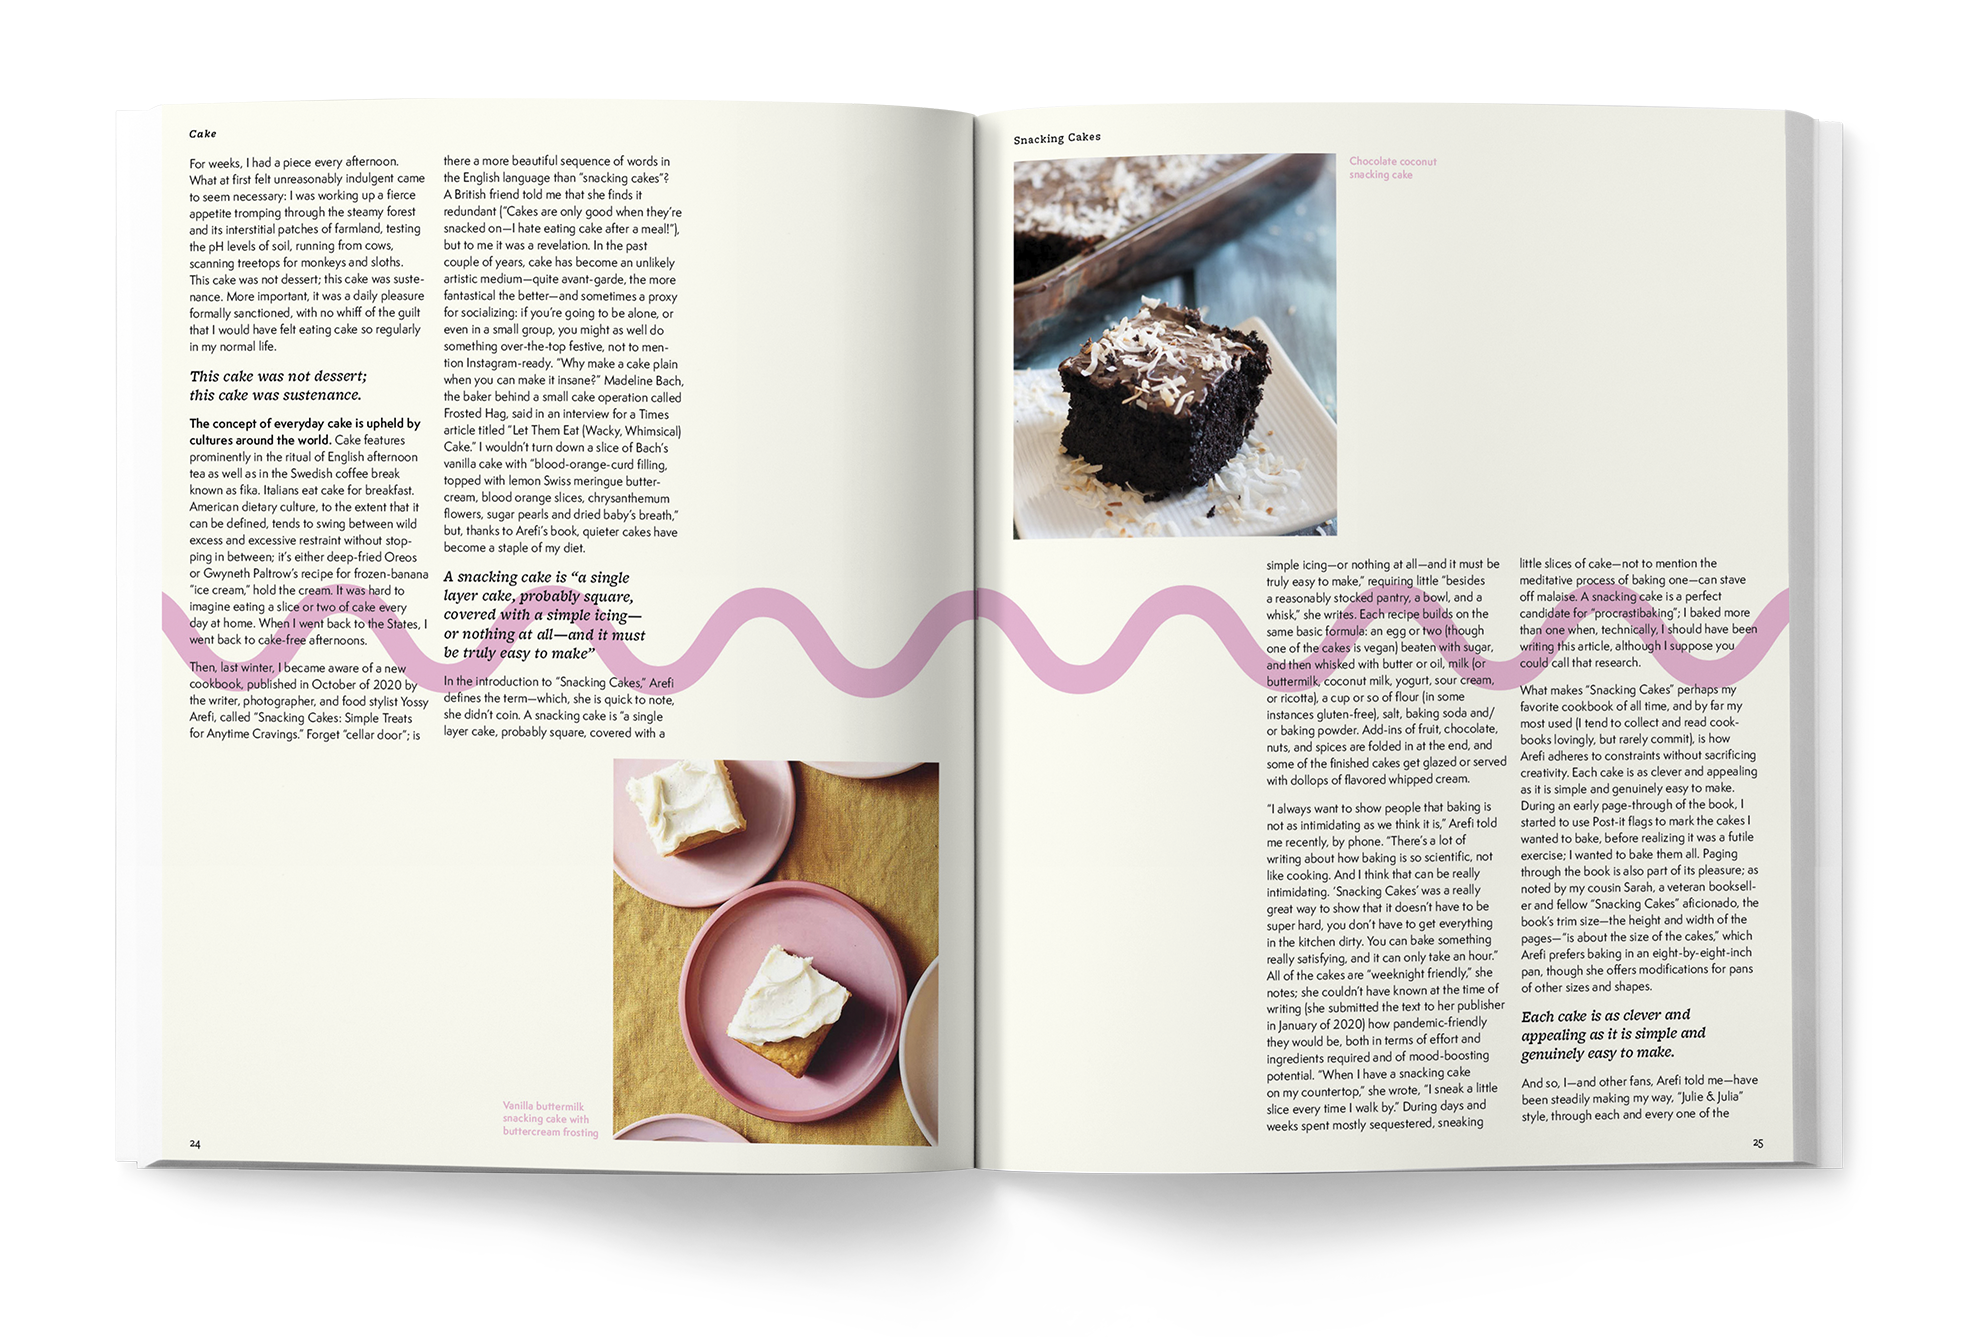
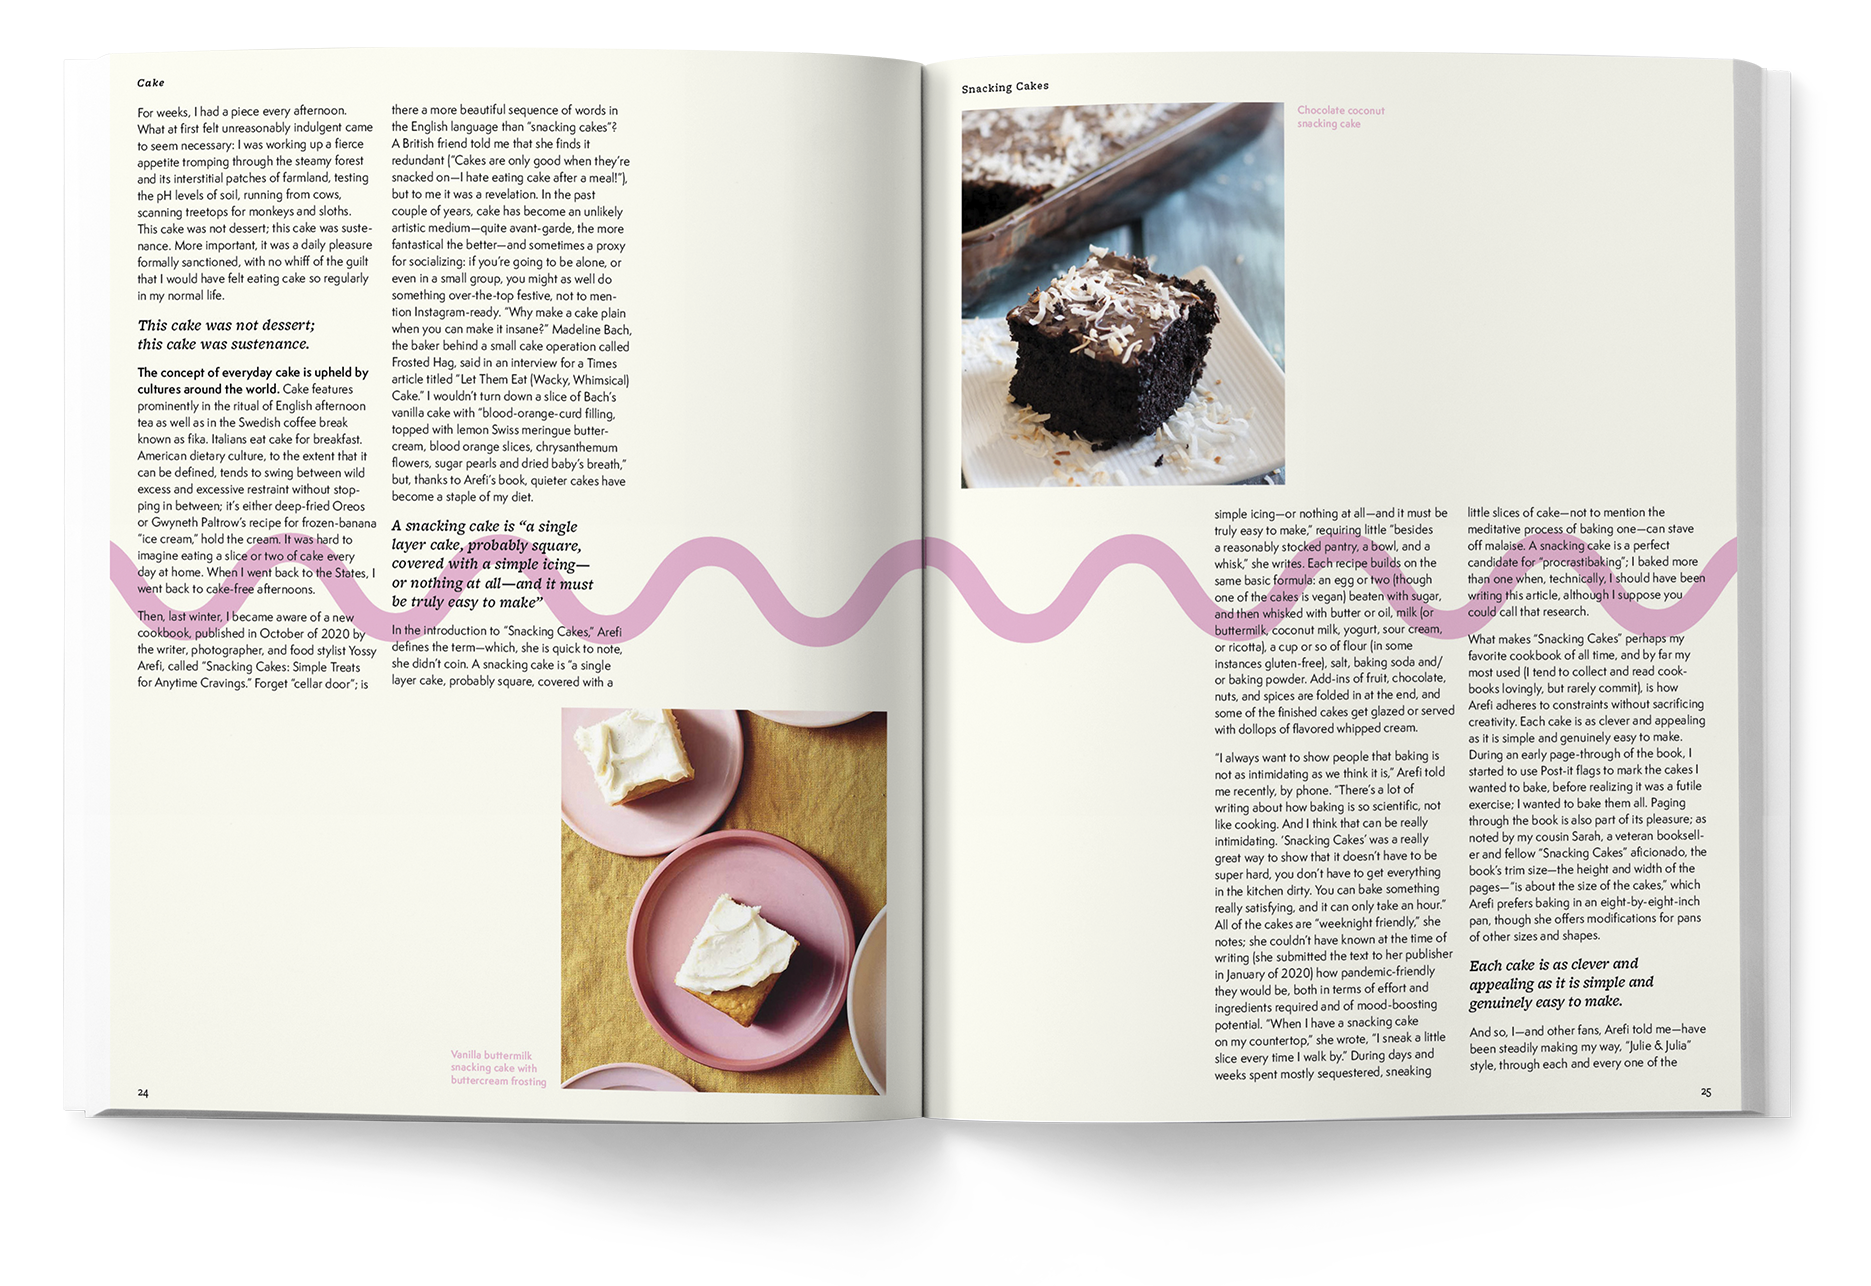
Add files via upload

Changed region(s): [[0.031, 0.0311, 0.961, 0.902]]

diff --git a/cake-mag/index.html b/cake-mag/index.html
@@ -43,7 +43,9 @@
                 <p class="blurb">A simple and round sans-serif provides legibility and friendliness to the body text while a slightly quirky serif provides crunchy accents in pull quotes and subheadings.</p>
             </div>
 
+            <img class="spread" src="interior-3-cropped.png">
             <img class="spread" src="interior-4.png">
+
         </div>
 
         <div id="footer">

diff --git a/cake-mag/styles.css b/cake-mag/styles.css
@@ -175,20 +175,25 @@ a{
         margin:0px;
     }
 
-    #spreads-mobile{
+    /* #spreads-mobile{
         display:block;
         width:96vw;
-    }
+    } */
 
     .blurb{
         width: 80vw;
     }
 
     #animation{
-        width: 90vw;
+        width: 120vw;
+        margin-left: -9vw;
     }
 
     #cover{
         width: 98vw;
+    }
+
+    .spread{
+        width:200vw;
     }
 }
